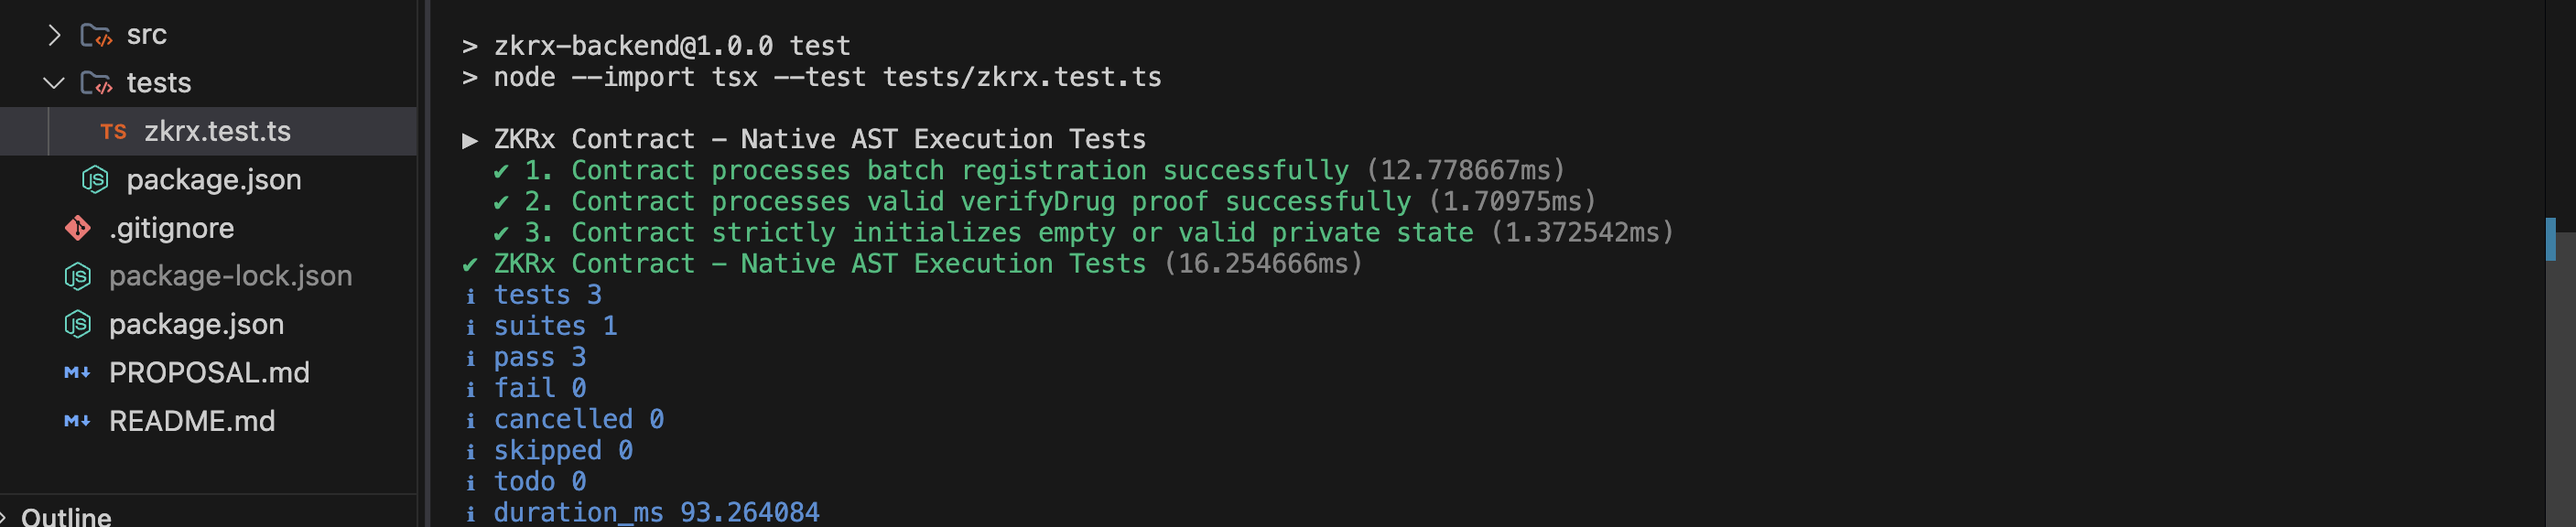
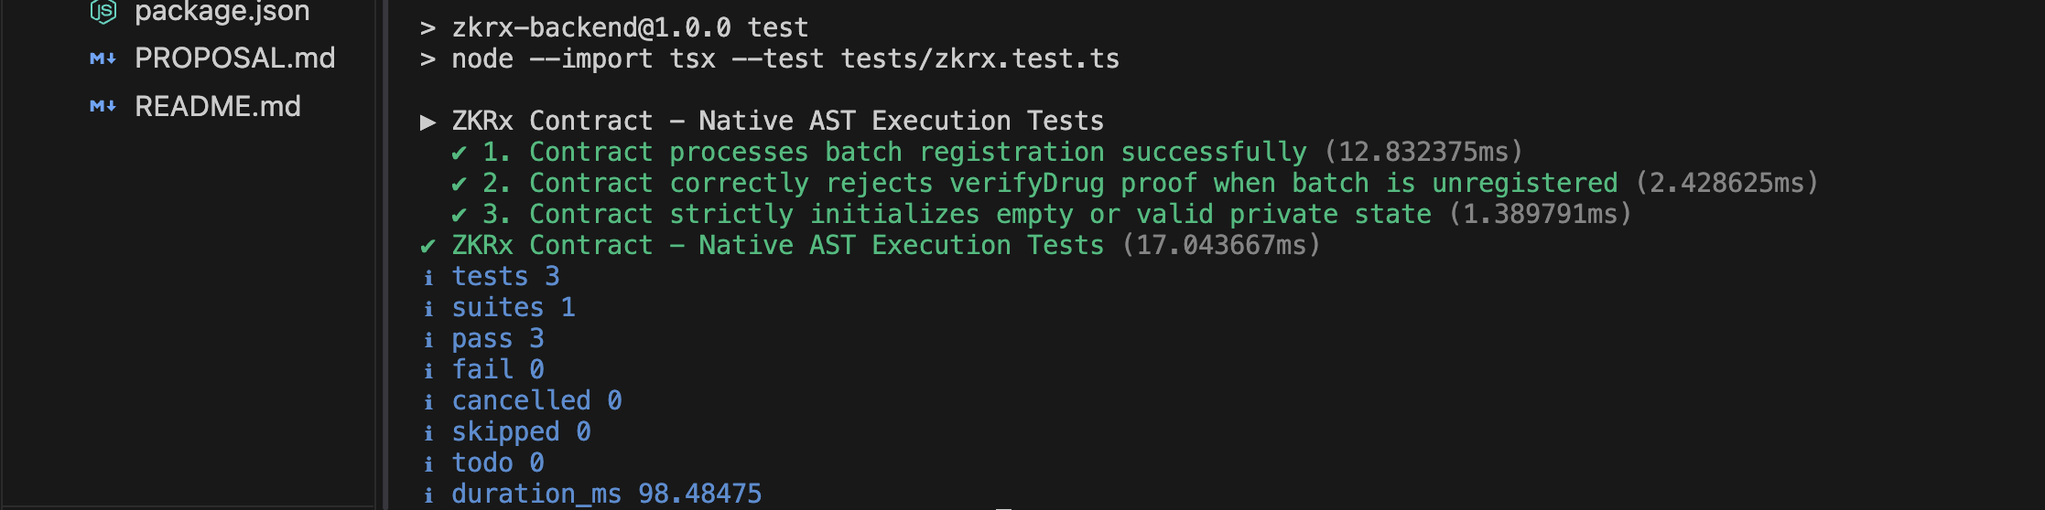
docs: Reorganize and technically document all project screenshots for Level 3 compliance

diff --git a/README.md b/README.md
@@ -98,18 +98,28 @@ The network verifies the proof and updates the public ledger, but remains comple
 
 ## 🧾 CHECKPOINT DELIVERABLES: DEPLOYMENT PROOFS
 
-### 1. Successful Contract Compilation
-*Terminal output verifying the successful compilation of the ZK circuits and generation of proving/verification keys.*
+### 1. Zero-Knowledge Circuit Compilation (Backend)
+*Terminal output verifying the successful compilation of the Midnight Compact ZK circuits (`zkrx.compact`) into BZKIR and ZKIR formats, generating the necessary proving and verification keys for local execution.*
 <details open>
-<summary><b>View Compile Output</b></summary>
+<summary><b>View Circuit Compile Output</b></summary>
 <br>
 
 <!-- Insert Screenshot Here -->
-<img src="./web-dapp/img/compile-out.png" width="800" alt="Compile Output">
+<img src="./web-dapp/img/compile-out-backend.png" width="800" alt="Backend Compile Output">
 </details>
 
-### 2. Verified Preprod Network Deployment
-*Official Midnight Explorer verification proving the smart contract is fully deployed and active on the Preprod blockchain.*
+### 2. DApp Production Build (Frontend)
+*Next.js 16 production build output demonstrating the clean compilation of the frontend interface, static route generation, and WebAssembly integration logic via the Midnight.js SDK.*
+<details open>
+<summary><b>View Frontend Build Output</b></summary>
+<br>
+
+<!-- Insert Screenshot Here -->
+<img src="./web-dapp/img/compile-out-frontend.png" width="800" alt="Frontend Build Output">
+</details>
+
+### 3. Verified Preprod Network Deployment
+*Official Midnight Explorer verification proving the smart contract is fully deployed and active on the Preprod blockchain, confirming its state is tracked by network consensus.*
 <details open>
 <summary><b>View Deployment Success</b></summary>
 <br>
@@ -118,8 +128,8 @@ The network verifies the proof and updates the public ledger, but remains comple
 <img src="./web-dapp/img/contracts-deployed.png" width="800" alt="Deployed Contract">
 </details>
 
-### 3. Verified ZK-Proof Submission on Preprod
-*Official Midnight Explorer verification proving the successful submission of a Zero-Knowledge Proof to the Preprod network.*
+### 4. Verified ZK-Proof Submission on Preprod
+*Official Midnight Explorer verification proving the successful submission of a Zero-Knowledge Proof to the Preprod network, executing the `verifyDrug` state transition securely.*
 *Transaction Hash:* [0x88a11a0e7333fb9cd69e58d67cc1586688cccaff2651b7dd37bb3f682ccb2cf8](https://preprod.midnightexplorer.com/transactions/0x88a11a0e7333fb9cd69e58d67cc1586688cccaff2651b7dd37bb3f682ccb2cf8)
 <details open>
 <summary><b>View Successful Transaction</b></summary>
@@ -129,10 +139,8 @@ The network verifies the proof and updates the public ledger, but remains comple
 <img src="./web-dapp/img/successfull-txn.png" width="800" alt="Successful Transaction">
 </details>
 
-
-
-### 4. Passing Test Suite (Level 3)
-*Terminal output proving 3+ successful passing tests for the Smart Contract invariants.*
+### 5. Passing Test Suite (Level 3)
+*Terminal output proving 3+ successful passing tests. Crucially, the tests rigorously validate circuit logic by ensuring `verifyDrug` mathematically rejects attempts on unregistered batches.*
 <details open>
 <summary><b>View Test Output</b></summary>
 <br>
@@ -141,8 +149,8 @@ The network verifies the proof and updates the public ledger, but remains comple
 <img src="./web-dapp/img/3+test.png" width="800" alt="Passing Tests">
 </details>
 
-### 5. Unified CI/CD Pipeline (Level 3)
-*GitHub Actions dashboard verifying the automated testing and build processes.*
+### 6. Unified CI/CD Pipeline (Level 3)
+*GitHub Actions dashboard verifying the automated pipeline. As required for Level 3 compliance, this includes a dedicated `Compile Compact Contract` step executed successfully before running tests.*
 <details open>
 <summary><b>View CI/CD Pipeline</b></summary>
 <br>
